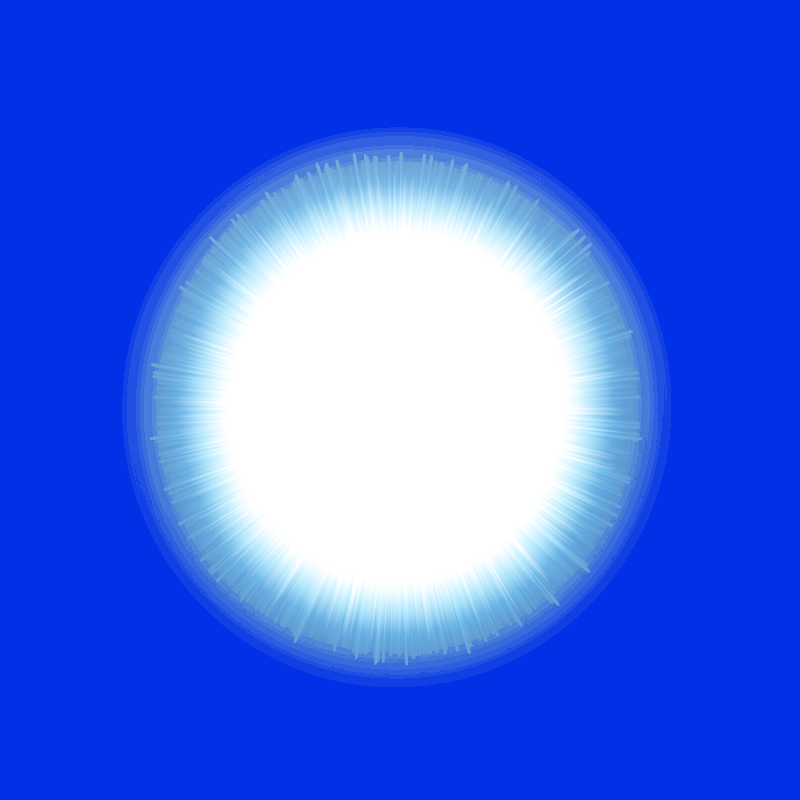
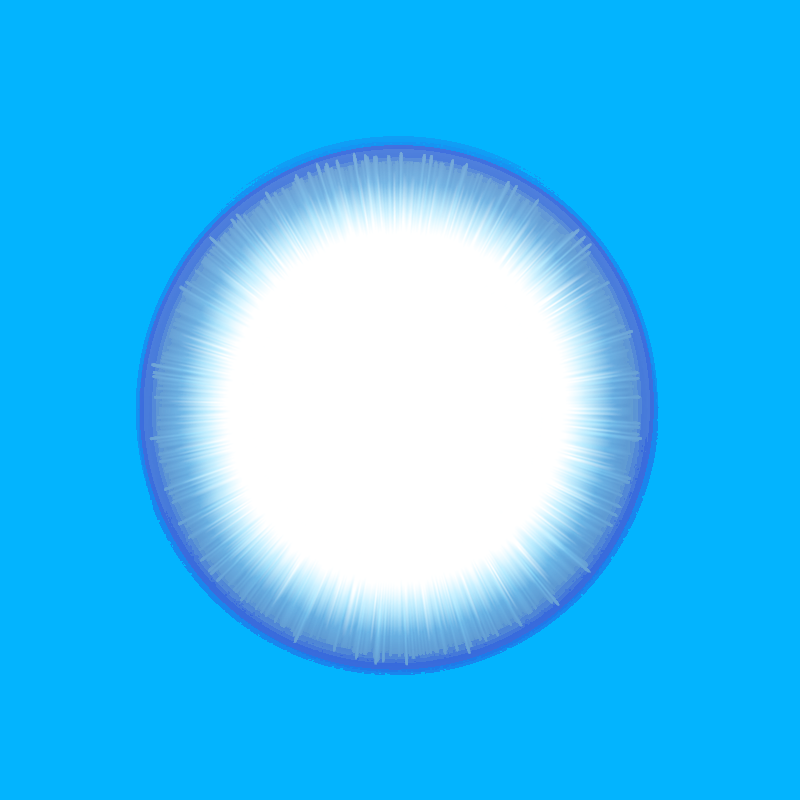
horrible colors removed

diff --git a/stylesheets/style.css b/stylesheets/style.css
@@ -26,7 +26,7 @@ html {
   padding: 0px;
   border: 1px solid black;
   display: inline-block;
-  background-color: #c5d6e1;
+  background-color: #425C77;
 }
 
 
@@ -39,33 +39,33 @@ html {
 
 .explosion {
   background-image: url("../images/explosion2.gif")!important;
-  background-color: red!important;
+  background-color: #E45852!important;
   background-size: 80px;  
   background-repeat: no-repeat;
   background-position: center;
 }
 .all-red {
-  background-color: red!important;
+  background-color: #E45852!important;
 }
 
 .all-green {
-  background-color: green!important;
+  background-color: #6FAD83!important;
 } 
 
 .hidden {
-  background-color: #c5d6e1!important;
+  background-color: #425C77!important;
   background-image: none!important;
 }
 
 .light {
-  background-image: url("../images/end-point.png");
+  background-image: url("../images/start-point.png");  
   background-size: 100px;
   background-position: center;
   background-repeat: no-repeat;
 }
 
 .bomb.used {
-  background-color: blue!important;
+  background-color: #03B4FE!important;
   background-image: url("../images/start-point.png");
   background-size: 30px;
   background-position: center;
@@ -73,7 +73,7 @@ html {
 }
 
 .used {
-  background-color: blue;
+  background-color: #03B4FE;
   background-image: url("../images/start-point.png");
   background-size: 30px;
   background-position: center;
